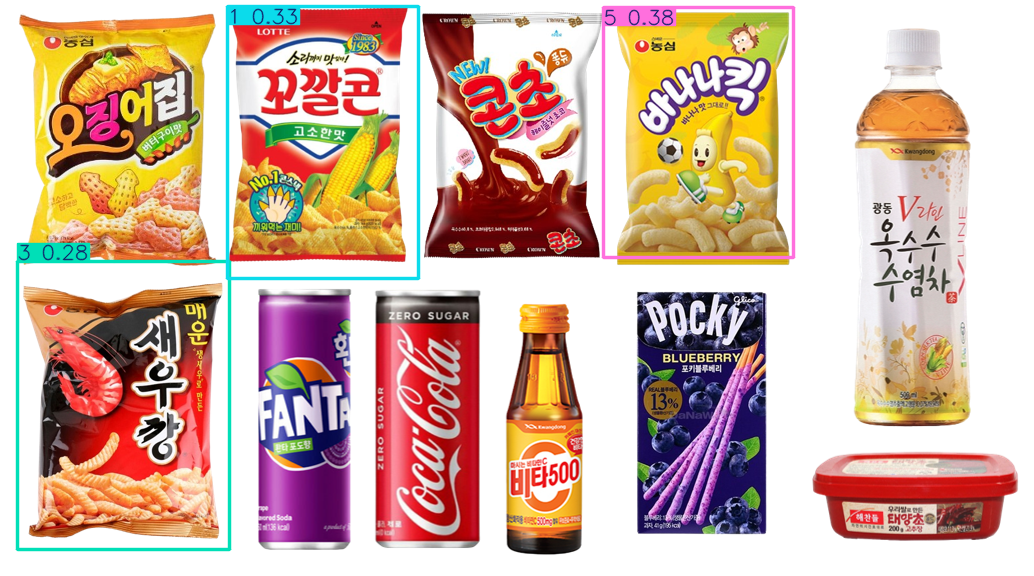
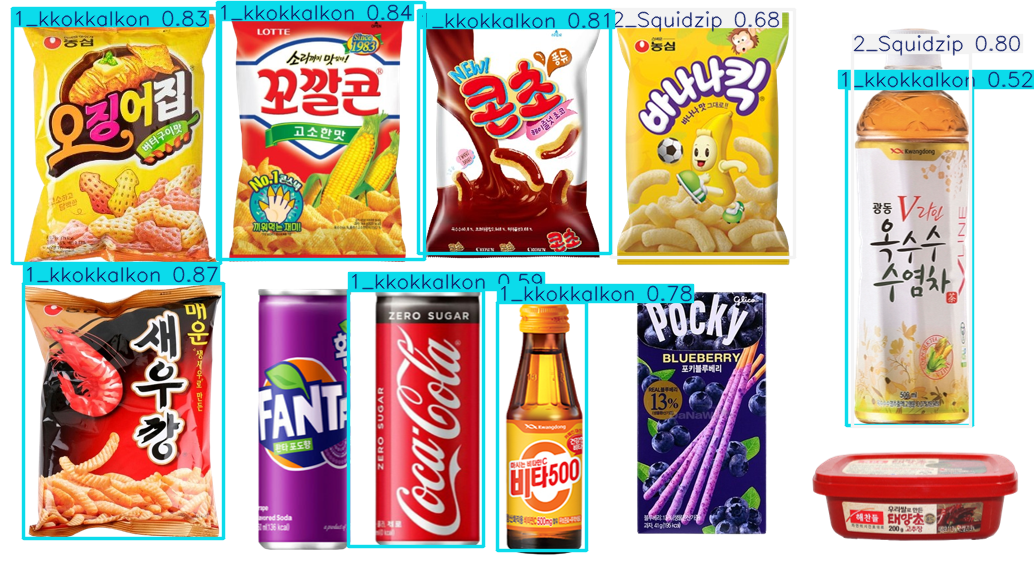
a

Changed region(s): [[0.0, 0.0, 0.7737, 0.9688], [0.8046, 0.0625, 1.0, 0.75], [0.9284, 0.2188, 0.9594, 0.2812]]

diff --git a/yolov8-sauron-newall/app.py b/yolov8-sauron-newall/app.py
@@ -2,12 +2,12 @@ from ultralytics import YOLO
 import torch
 
 # model = YOLO('yolov8n.pt')
-model = YOLO('best.pt')
+model = YOLO('besti.pt')
 
 device = torch.device("mps")
 
 model.predict(
-   source='./input/in1.png',
+   source='./input/in2.png',
    conf=0.25,
    save=True,
    project=".",
